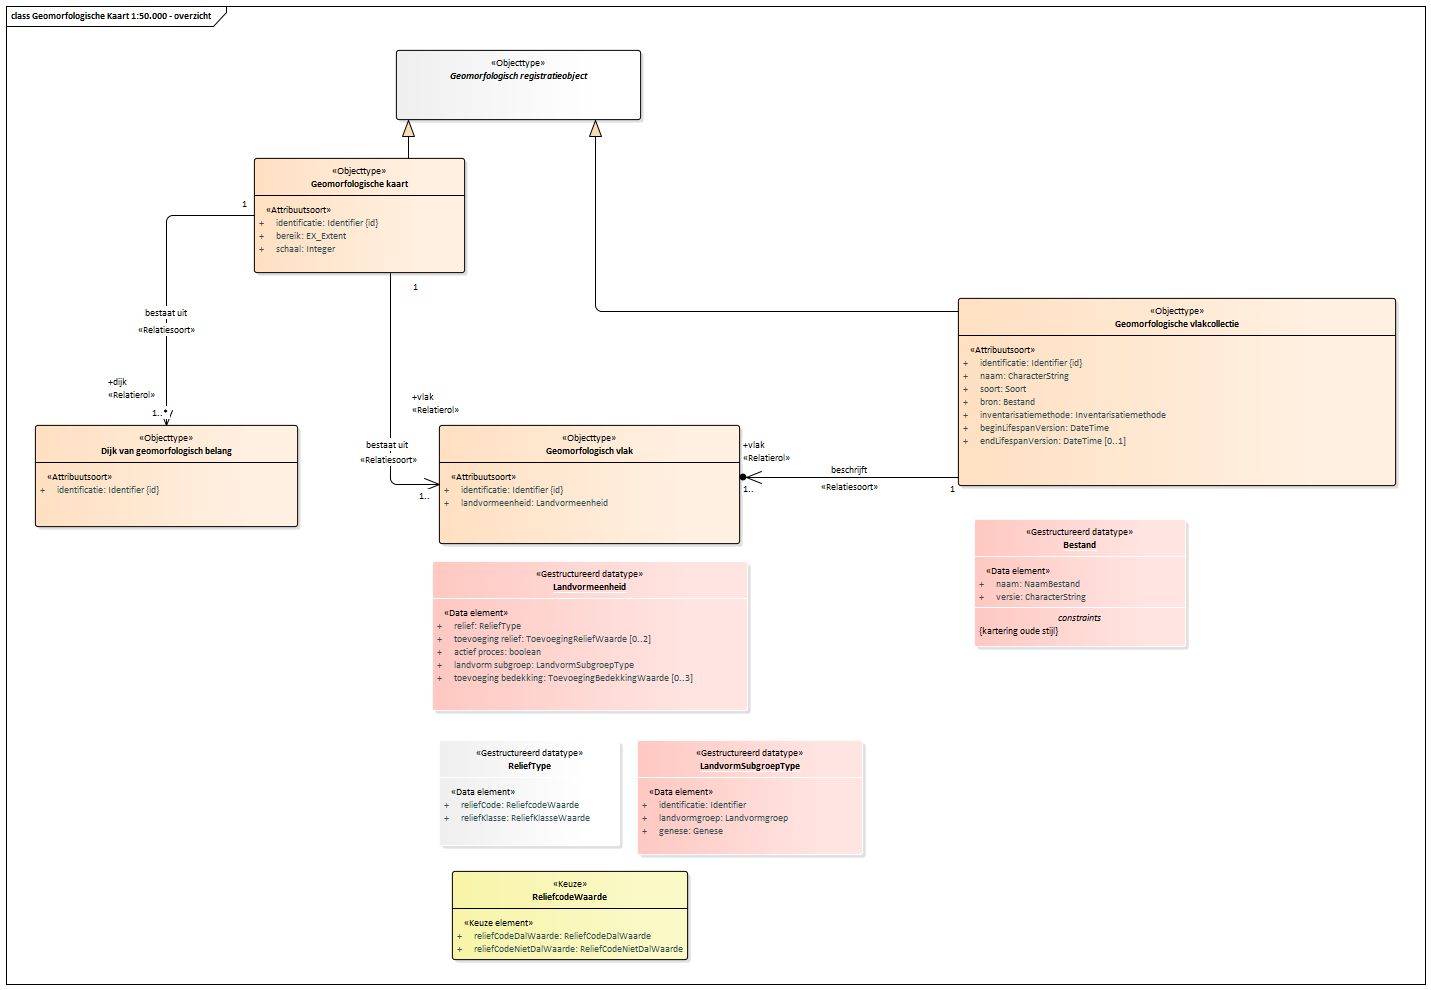
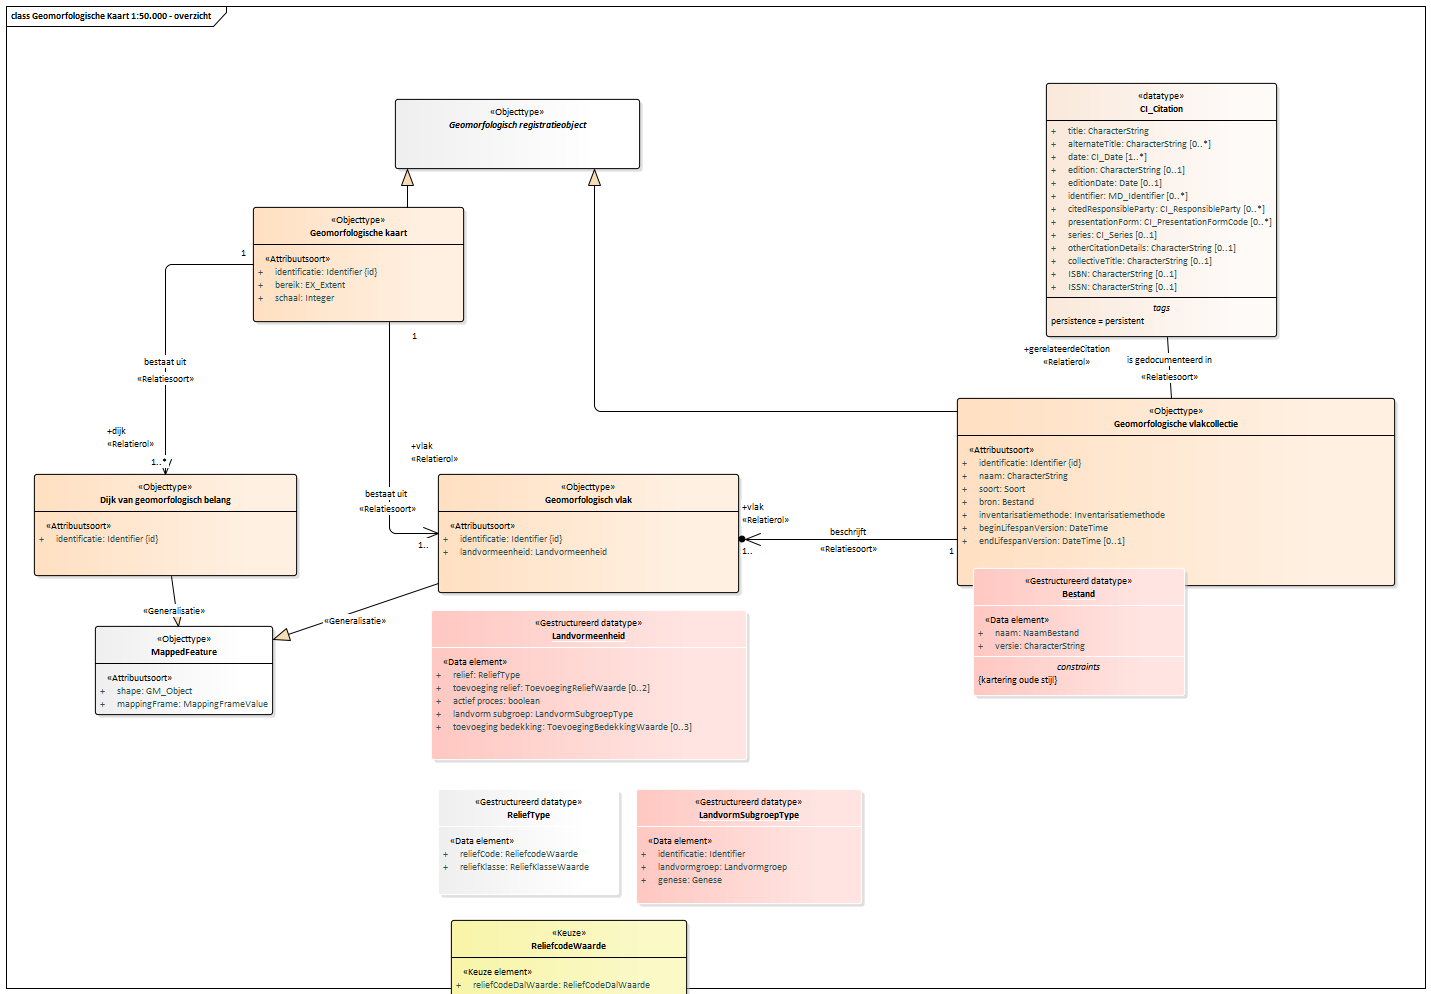
Conceptualmodel-GeomorfologischeKaartGMM-1.0-1-20180806-20180925-145815

diff --git a/data/GMM-cat.html b/data/GMM-cat.html
@@ -1,23 +1,23 @@
 <h2>Catalogus</h2>
 <p class="note" title="Over deze catalogus">
    Deze catalogus is automatisch samengesteld op basis van het UML model 
-   "Geomorfologische Kaart (GMM)" door Imvertor 1.47.2 op September 25, 2018 at 11:48:49.
+   "Geomorfologische Kaart (GMM)" door Imvertor 1.47.2 op September 25, 2018 at 12:58:13.
    <br>
    Wanneer je technische fouten of onvolkomenheden aantreft, geef dit dan door aan <i></i> en geef de code 
-   <i>"Conceptualmodel-GeomorfologischeKaartGMM-1.0-1-20180806-20180925-134851"</i> door. 
+   <i>"Conceptualmodel-GeomorfologischeKaartGMM-1.0-1-20180806-20180925-145815"</i> door. 
    
 </p>
 <div class="imageinfo overview"><img src="data/Images/EAID_160626A1_CCDD_4032_B4D5_D30FF8FE4847.png" usemap="#imagemap-EAID_160626A1_CCDD_4032_B4D5_D30FF8FE4847"><map name="imagemap-EAID_160626A1_CCDD_4032_B4D5_D30FF8FE4847">
-      <area shape="rect" coords="452,960,688,871" alt="" href="#graph_EAID_BFEEA89D_0D4C_4c95_BC1D_762A18EB6F9B">
-      <area shape="rect" coords="439,846,620,740" alt="" href="#graph_EAID_CF085D60_ACA5_422f_A726_C21B2D6549C3">
-      <area shape="rect" coords="396,120,641,50" alt="" href="#graph_EAID_E3238A7E_FE1C_43a4_BF66_332ECDEF7681">
-      <area shape="rect" coords="637,855,863,740" alt="" href="#graph_EAID_F5CF0FBC_08E7_49d2_8E14_D592AE2EAC26">
-      <area shape="rect" coords="432,711,748,561" alt="" href="#graph_EAID_F1A1F858_8446_411b_A110_BA4C54C97740">
-      <area shape="rect" coords="974,647,1186,519" alt="" href="#graph_EAID_855C49C9_52D4_4f86_89D7_DFADF4760977">
-      <area shape="rect" coords="35,527,298,425" alt="" href="#graph_EAID_843FBABD_EBF0_4f1a_B37D_3D27CF51E1E4">
-      <area shape="rect" coords="958,486,1396,298" alt="" href="#graph_EAID_1A180318_ED48_404f_BF37_B130C4BF1BD8">
-      <area shape="rect" coords="439,544,740,425" alt="" href="#graph_EAID_79B1980D_BA7A_45db_8EF1_F9DCFF6B5389">
-      <area shape="rect" coords="254,273,465,158" alt="" href="#graph_EAID_6153A93B_5EF8_4e22_8EEC_7CF612ACE3D6"></map><p><b>Geomorfologische Kaart 1:50.000 - overzicht</b> — Ontwerp conceptueel model voor de Geomorfologische kaart, ten behoeve van de Basisregistratie
+      <area shape="rect" coords="451,1009,687,920" alt="" href="#graph_EAID_BFEEA89D_0D4C_4c95_BC1D_762A18EB6F9B">
+      <area shape="rect" coords="438,895,619,789" alt="" href="#graph_EAID_CF085D60_ACA5_422f_A726_C21B2D6549C3">
+      <area shape="rect" coords="395,169,640,99" alt="" href="#graph_EAID_E3238A7E_FE1C_43a4_BF66_332ECDEF7681">
+      <area shape="rect" coords="636,904,862,789" alt="" href="#graph_EAID_F5CF0FBC_08E7_49d2_8E14_D592AE2EAC26">
+      <area shape="rect" coords="431,760,747,610" alt="" href="#graph_EAID_F1A1F858_8446_411b_A110_BA4C54C97740">
+      <area shape="rect" coords="973,696,1185,568" alt="" href="#graph_EAID_855C49C9_52D4_4f86_89D7_DFADF4760977">
+      <area shape="rect" coords="34,576,297,474" alt="" href="#graph_EAID_843FBABD_EBF0_4f1a_B37D_3D27CF51E1E4">
+      <area shape="rect" coords="957,586,1395,398" alt="" href="#graph_EAID_1A180318_ED48_404f_BF37_B130C4BF1BD8">
+      <area shape="rect" coords="438,593,739,474" alt="" href="#graph_EAID_79B1980D_BA7A_45db_8EF1_F9DCFF6B5389">
+      <area shape="rect" coords="253,322,464,207" alt="" href="#graph_EAID_6153A93B_5EF8_4e22_8EEC_7CF612ACE3D6"></map><p><b>Geomorfologische Kaart 1:50.000 - overzicht</b> — Ontwerp conceptueel model voor de Geomorfologische kaart, ten behoeve van de Basisregistratie
       Ondergrond (BRO).
    </p>
 </div>
@@ -126,6 +126,17 @@
             </tr>
             <tr>
                <td>
+                  Dijk van geomorfologisch belang
+                  is specialisatie van
+                  
+                  <a class="link" href="#global_class_INSPIRE_MappedFeature">MappedFeature</a>
+                  
+                  
+               </td>
+               <td>A spatial representation of a GeologicFeature.</td>
+            </tr>
+            <tr>
+               <td>
                   
                   <a class="link" href="#global_class_Model_GeomorfologischeKaart">Geomorfologische kaart</a>
                   
@@ -230,6 +241,17 @@
             <tr>
                <th>Rol naam met kardinaliteiten</th>
                <th>Definitie</th>
+            </tr>
+            <tr>
+               <td>
+                  Geomorfologisch vlak
+                  is specialisatie van
+                  
+                  <a class="link" href="#global_class_INSPIRE_MappedFeature">MappedFeature</a>
+                  
+                  
+               </td>
+               <td>A spatial representation of a GeologicFeature.</td>
             </tr>
             <tr>
                <td>
@@ -445,6 +467,23 @@
                </td>
                <td>De unieke aanduiding van elk Geomorfologisch vlak waaruit de Geomorfologische vlakcollectie
                   bestaat.
+               </td>
+            </tr>
+            <tr>
+               <td>
+                  Geomorfologische vlakcollectie
+                  [ 1 ]
+                  
+                  <a class="link" href="#detail_association_Model_GeomorfologischeVlakcollectie_gerelateerdeCitation">is gedocumenteerd in: gerelateerdeCitation</a>
+                  
+                  
+                  <a class="link" href="#global_class_ISO191152006MetadataCorrigendum_CI_Citation">CI_Citation</a>
+                  
+                  [ 1 ]
+                  
+               </td>
+               <td>De unieke aanduiding van een CI_Citation waarin de Geomorfologische vlakcollectie
+                  is gedocumenteerd.
                </td>
             </tr>
          </tbody>
@@ -998,10 +1037,6 @@
                <td>ReliefcodeWaarde</td>
             </tr>
             <tr>
-               <th>Herkomst</th>
-               <td>BRO</td>
-            </tr>
-            <tr>
                <th>Definitie</th>
                <td>Een samengestelde waardes voor reliefcode waarbij een gekeuze gemaakt moet worden
                   tussen dalwaarde (ReliefCodeDalWaarde) en niet-dalwaarde (ReliefCodeNietDalWaarde).
@@ -1069,10 +1104,6 @@
             <tr>
                <th>Naam</th>
                <td>Landvormeenheid</td>
-            </tr>
-            <tr>
-               <th>Alternatieve naam</th>
-               <td>landvormeenheid</td>
             </tr>
             <tr>
                <th>Definitie</th>
@@ -1144,7 +1175,8 @@
                      
                   </td>
                   <td>Onderverdeling van landvormeenheden naar het wel of niet onderhevig zijn aan een actief
-                     vormingsproces.
+                     vormingsproces. Indien er geomorfologische processen actief op een landvorm inwerken
+                     wordt dit in dit attribuut aangegeven.
                   </td>
                   <td>
                      Boolean
@@ -1195,7 +1227,10 @@
             </tr>
             <tr>
                <th>Definitie</th>
-               <td>Vormen binnen de landvormgroep en dezelfde genese, maar met andere specifieke vormkenmerken.</td>
+               <td>Vormen binnen de landvormgroep en dezelfde genese, maar met andere specifieke vormkenmerken.
+                  Landvormgroepen worden op basis van genese onderverdeeld. Er zijn 10 genetische processen
+                  die van invloed kunnen zijn op de landvorm.
+               </td>
             </tr>
          </tbody>
       </table>
@@ -1411,48 +1446,6 @@
                <td>Externe unieke object-identifier gepubliceerd door de verantwoordelijke instantie,
                   die kan worden gebruikt door externe toepassingen om te verwijzen naar het ruimtelijke
                   object. (bron: INSPIRE)
-               </td>
-            </tr>
-         </tbody>
-      </table>
-      
-   </section>
-   <a class="anchor" name="graph_EAID_1D36F4B0_E821_42d7_8AEF_0B8D8CFF93AC"></a><a class="anchor" name="global_class_Model_GM_MultiSolid"></a><section id="global_class_Model_GM_MultiSolid">
-      <h4>Primitief datatype GM_MultiSolid</h4>
-      
-      <table>
-         <colgroup width="30%"></colgroup>
-         <colgroup width="70%"></colgroup>
-         <tbody>
-            <tr>
-               <th>Naam</th>
-               <td>GM_MultiSolid</td>
-            </tr>
-            <tr>
-               <th>Definitie</th>
-               <td>Multivolume. Verzameling van volumes die gezamenlijk één object vormen (instanties
-                  van GM_Solid). (bron: ISO 19107:2003 Spatial Schema)
-               </td>
-            </tr>
-         </tbody>
-      </table>
-      
-   </section>
-   <a class="anchor" name="graph_EAID_32A49D7C_18CB_4d14_9346_C092A30257AD"></a><a class="anchor" name="global_class_Model_GM_MultiSurface"></a><section id="global_class_Model_GM_MultiSurface">
-      <h4>Primitief datatype GM_MultiSurface</h4>
-      
-      <table>
-         <colgroup width="30%"></colgroup>
-         <colgroup width="70%"></colgroup>
-         <tbody>
-            <tr>
-               <th>Naam</th>
-               <td>GM_MultiSurface</td>
-            </tr>
-            <tr>
-               <th>Definitie</th>
-               <td>Multivlak. Verzameling van vlakken die gezamenlijk één object vormen (instanties van
-                  GM_Surface). (bron: ISO 19107:2003 Spatial Schema)
                </td>
             </tr>
          </tbody>
@@ -2145,6 +2138,40 @@
                   <th>Gerelateerd objecttype</th>
                   <td>
                      <a class="link" href="#global_class_Model_GeomorfologischVlak">Geomorfologisch vlak</a>
+                     
+                  </td>
+               </tr>
+            </tbody>
+         </table>
+         
+      </section>
+      <a class="anchor" name="detail_association_Model_GeomorfologischeVlakcollectie_gerelateerdeCitation"></a><section id="detail_association_Model_GeomorfologischeVlakcollectie_gerelateerdeCitation">
+         <h6>Relatiesoort details <a href="#global_class_Model_GeomorfologischeVlakcollectie">Geomorfologische vlakcollectie</a> is gedocumenteerd in
+         </h6>
+         
+         
+         <table>
+            <colgroup width="30%"></colgroup>
+            <colgroup width="70%"></colgroup>
+            <tbody>
+               <tr>
+                  <th>Naam</th>
+                  <td>is gedocumenteerd in</td>
+               </tr>
+               <tr>
+                  <th>Definitie</th>
+                  <td>De unieke aanduiding van een CI_Citation waarin de Geomorfologische vlakcollectie
+                     is gedocumenteerd.
+                  </td>
+               </tr>
+               <tr>
+                  <th>Indicatie kardinaliteit</th>
+                  <td>1</td>
+               </tr>
+               <tr>
+                  <th>Gerelateerd objecttype</th>
+                  <td>
+                     <a class="link" href="#global_class_ISO191152006MetadataCorrigendum_CI_Citation">CI_Citation</a>
                      
                   </td>
                </tr>
@@ -2932,17 +2959,8 @@
                <tr>
                   <th>Definitie</th>
                   <td>Onderverdeling van landvormeenheden naar het wel of niet onderhevig zijn aan een actief
-                     vormingsproces.
-                  </td>
-               </tr>
-               <tr>
-                  <th>Herkomst definitie</th>
-                  <td>BRO</td>
-               </tr>
-               <tr>
-                  <th>Toelichting</th>
-                  <td>Indien er geomorfologische processen actief op een landvorm inwerken wordt dit in
-                     dit attribuut aangegeven.
+                     vormingsproces. Indien er geomorfologische processen actief op een landvorm inwerken
+                     wordt dit in dit attribuut aangegeven.
                   </td>
                </tr>
                <tr>
@@ -3108,16 +3126,6 @@
                   <td>De ontstaanswijze van landvormen.</td>
                </tr>
                <tr>
-                  <th>Herkomst definitie</th>
-                  <td>BRO</td>
-               </tr>
-               <tr>
-                  <th>Toelichting</th>
-                  <td>Landvormgroepen worden op basis van genese onderverdeeld. Er zijn 10 genetische processen
-                     die van invloed kunnen zijn op de landvorm.
-                  </td>
-               </tr>
-               <tr>
                   <th>Indicatie kardinaliteit</th>
                   <td>1</td>
                </tr>
@@ -3206,10 +3214,6 @@
                   <td>De naam of beschrijving van het bestand met hoogte informatie.</td>
                </tr>
                <tr>
-                  <th>Herkomst definitie</th>
-                  <td>BRO</td>
-               </tr>
-               <tr>
                   <th>Indicatie kardinaliteit</th>
                   <td>1</td>
                </tr>
@@ -3240,10 +3244,6 @@
                <tr>
                   <th>Definitie</th>
                   <td>De versie van het bestand met hoogte informatie.</td>
-               </tr>
-               <tr>
-                  <th>Herkomst definitie</th>
-                  <td>BRO</td>
                </tr>
                <tr>
                   <th>Indicatie kardinaliteit</th>
